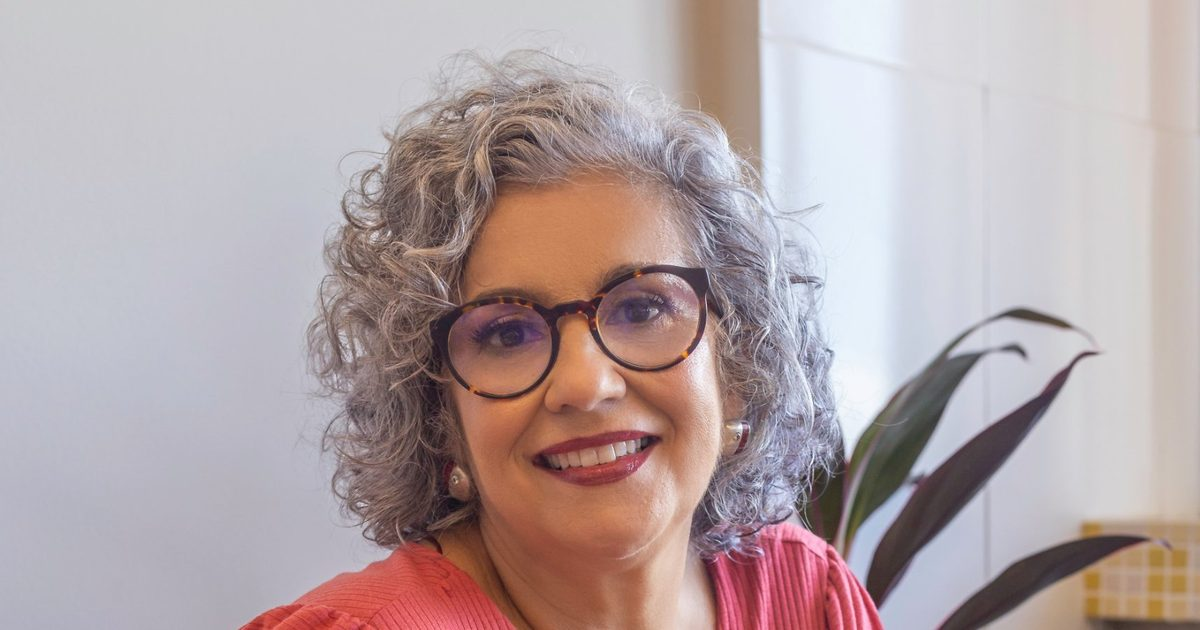
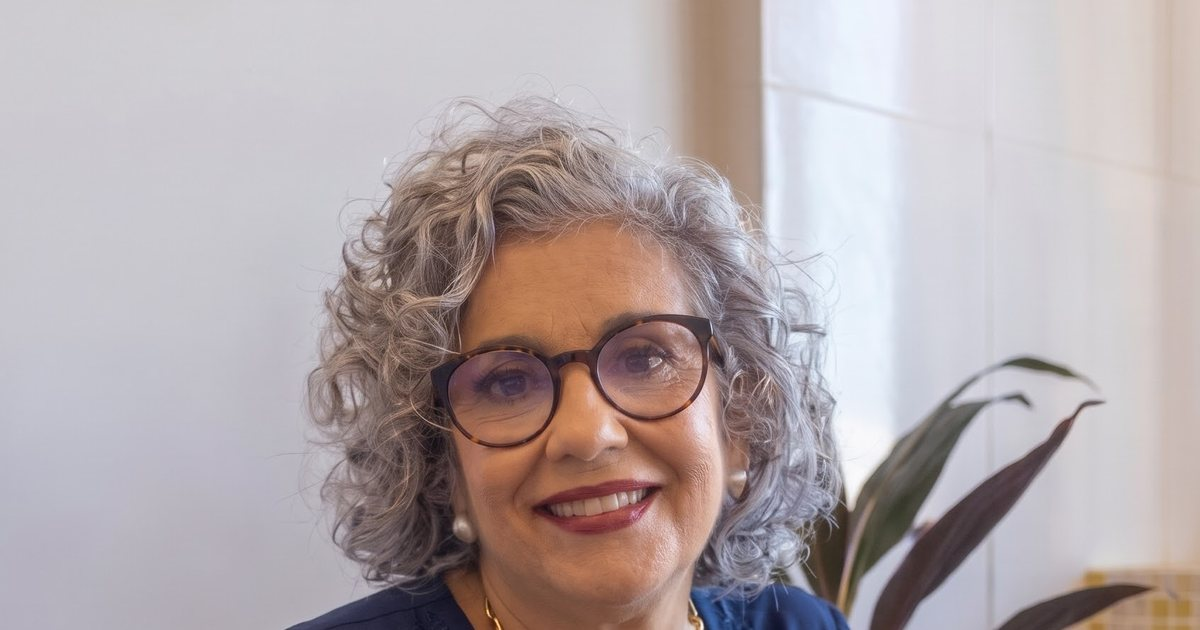
Foto do topo em alta resolução, close amarelo na trajetória e online sem limite geográfico
Claude-Session: https://claude.ai/code/session_013LiB4tU2sZVeKQjgeynHhA

diff --git a/index.html b/index.html
@@ -4,12 +4,12 @@
 <meta charset="utf-8">
 <meta name="viewport" content="width=device-width, initial-scale=1">
 <title>Dra. Marlizete Maldonado Vargas · Psicóloga em Aracaju · CRP 19/00613</title>
-<meta name="description" content="Psicóloga e psicoterapeuta desde 1981. Terapia de casal e família presencial em Aracaju (SE) e atendimento online a famílias por adoção em todo o Brasil.">
+<meta name="description" content="Psicóloga e psicoterapeuta desde 1981. Terapia de casal e família presencial em Aracaju (SE) e atendimento online no Brasil e no exterior, inclusive a famílias por adoção.">
 <meta name="theme-color" content="#F5EEE3">
 <meta property="og:type" content="website">
 <meta property="og:locale" content="pt_BR">
 <meta property="og:title" content="Dra. Marlizete Maldonado Vargas · Psicóloga em Aracaju">
-<meta property="og:description" content="Casal e família presencial em Aracaju. Famílias por adoção, online, em todo o Brasil.">
+<meta property="og:description" content="Casal e família presencial em Aracaju. Online no Brasil e no exterior, inclusive famílias por adoção.">
 <meta property="og:image" content="img/og-marlizete.jpg">
 
 <!--
@@ -24,17 +24,19 @@
 <link rel="preconnect" href="https://fonts.gstatic.com" crossorigin>
 <link href="https://fonts.googleapis.com/css2?family=Atkinson+Hyperlegible+Next:wght@400;600;700&family=Literata:ital,opsz,wght@0,7..72,400..700;1,7..72,400..600&display=swap" rel="stylesheet">
 
-<link rel="preload" as="image" type="image/webp" href="img/marlizete-abertura-343.webp">
+<link rel="preload" as="image" type="image/webp"
+  imagesrcset="img/marlizete-abertura-480.webp 480w, img/marlizete-abertura-960.webp 960w, img/marlizete-abertura-1400.webp 1400w"
+  imagesizes="(min-width: 900px) 400px, 72vw">
 
 <script type="application/ld+json">
 {
   "@context": "https://schema.org",
   "@type": "Psychologist",
   "name": "Dra. Marlizete Maldonado Vargas",
-  "description": "Psicóloga e psicoterapeuta desde 1981 (CRP 19/00613). Terapia de casal e família em Aracaju e atendimento online a famílias por adoção em todo o Brasil.",
+  "description": "Psicóloga e psicoterapeuta desde 1981 (CRP 19/00613). Terapia de casal e família presencial em Aracaju e atendimento online no Brasil e no exterior, inclusive a famílias por adoção.",
   "image": "img/og-marlizete.jpg",
   "telephone": "+55 79 99828-9847",
-  "areaServed": ["Aracaju", "Brasil"],
+  "areaServed": ["Aracaju", "Brasil", "Exterior (online)"],
   "address": {
     "@type": "PostalAddress",
     "streetAddress": "Praça da Bandeira, 465, sala 403 (Clinical Center)",
@@ -368,8 +370,8 @@ p{ margin:0 0 1em; max-width:62ch; }
       <div class="palco">
         <figure class="principal carta gira-e">
           <picture>
-            <source type="image/webp" srcset="img/marlizete-abertura-343.webp">
-            <img src="img/marlizete-abertura-343.jpg" width="343" height="512" fetchpriority="high"
+            <source type="image/webp" srcset="img/marlizete-abertura-480.webp 480w, img/marlizete-abertura-960.webp 960w, img/marlizete-abertura-1400.webp 1400w" sizes="(min-width: 900px) 400px, 72vw">
+            <img src="img/marlizete-abertura-960.jpg" width="960" height="1433" fetchpriority="high"
                  alt="Dra. Marlizete sorri sentada numa poltrona de madeira do consultório, de mãos entrelaçadas. Tem cabelo grisalho cacheado, óculos redondos, blusa azul-marinho e colar azul de peças geométricas; atrás dela, plantas e a luz da janela.">
           </picture>
         </figure>
@@ -429,7 +431,7 @@ p{ margin:0 0 1em; max-width:62ch; }
         <div>
           <span class="num">02</span>
           <h3 id="t-adocao">Famílias por adoção</h3>
-          <span class="selo selo--online">Online · Brasil todo</span>
+          <span class="selo selo--online">Online · Brasil e exterior</span>
           <p>Antes de entrar na fila do processo de adoção, durante a espera e depois da chegada do filho.</p>
           <p>Quem procura por “adoção tardia” me encontra por esse nome. Eu prefiro dizer adoção de crianças maiores: a adoção é necessária, e tardia é um adjetivo que discrimina.</p>
           <p class="remate">Da família sonhada à família possível.</p>
@@ -510,9 +512,9 @@ p{ margin:0 0 1em; max-width:62ch; }
     <div class="wrap duas duas--inv">
       <figure class="foto carta gira-e revela">
         <picture>
-          <source type="image/webp" srcset="img/marlizete-retrato-480.webp 480w, img/marlizete-retrato-960.webp 960w, img/marlizete-retrato-1200.webp 1200w" sizes="(min-width: 900px) 440px, 88vw">
-          <img src="img/marlizete-retrato-960.jpg" width="960" height="1200" loading="lazy"
-               alt="Retrato da Dra. Marlizete com blusa preta bordada em dourado, a mão no queixo e um sorriso largo, ao lado de um abajur aceso.">
+          <source type="image/webp" srcset="img/marlizete-sorriso-480.webp 480w, img/marlizete-sorriso-960.webp 960w, img/marlizete-sorriso-1200.webp 1200w" sizes="(min-width: 900px) 440px, 88vw">
+          <img src="img/marlizete-sorriso-960.jpg" width="960" height="960" loading="lazy"
+               alt="Dra. Marlizete sentada no chão, de macacão mostarda e lenço florido, olha para cima e sorri.">
         </picture>
       </figure>
 
@@ -573,7 +575,7 @@ p{ margin:0 0 1em; max-width:62ch; }
           </details>
           <details>
             <summary>Atende online fora de Sergipe?</summary>
-            <p>Sim. O atendimento a famílias por adoção é online e vale para todo o Brasil.</p>
+            <p>Sim. Presencialmente atendo em Aracaju; online, não há limite geográfico: atendo em todo o Brasil e no exterior.</p>
           </details>
           <details>
             <summary>Por que “adoção de crianças maiores” e não “adoção tardia”?</summary>
